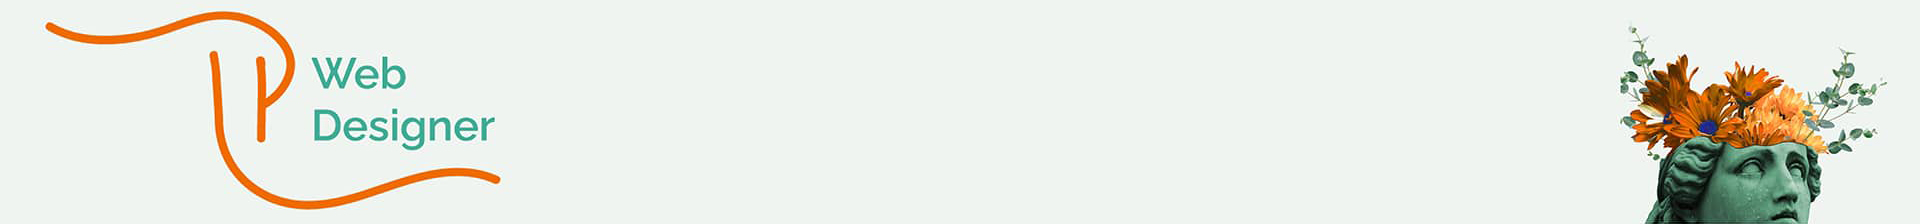
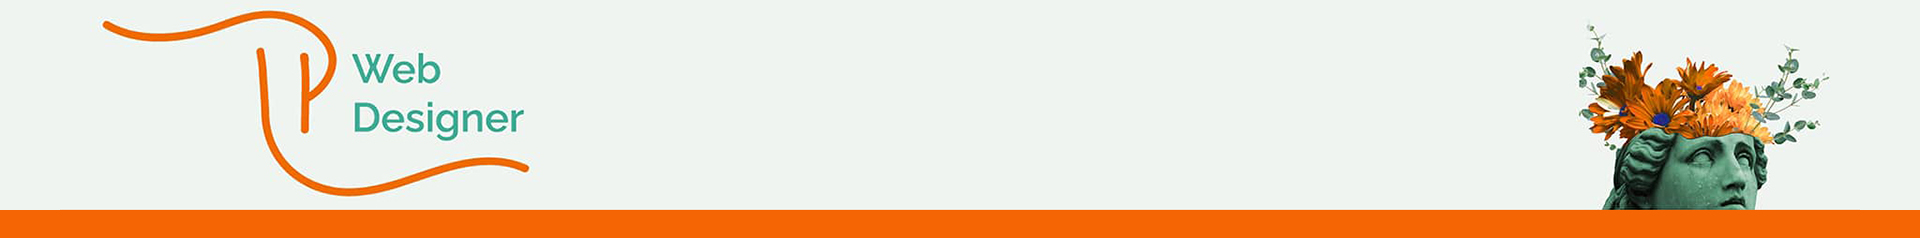
optimisation visuels

Changed region(s): [[0.0, 0.0312, 1.0, 1.0], [0.9375, 0.2188, 0.9688, 0.25], [0.9062, 0.1875, 0.9375, 0.2188]]

diff --git a/curriculum.html b/curriculum.html
@@ -19,7 +19,7 @@
   <!-- banniere  mobile-->
 
   <header>
-    <div class="fixed-top container-fluid d-md-none">
+    <div class="fixed-top container-fluid d-md-none p-0">
       <div class="row">
 
         <a href="index.html">
@@ -83,11 +83,15 @@
 
     </div>
   </main>
-<!-- flower fixed head  -->
+<!-- flower fixed head mobile -->
   <footer class="fixed-bottom">
-    <a href="index.html"><img src="assets/img/footer/head-flowers.png" alt="head-flowers" class=woman-bottom></a>
+    <a href="index.html"><img src="assets/img/footer/head-flowers.png" alt="head-flowers" class= "woman-bottom d-block d-md-none"></a>
   </footer>
 
+  <!-- flower fixed head desktop -->
+  <footer class="fixed-bottom">
+    <a href="index.html"><img src="assets/img/footer/head-flowers-branch.png" alt="head-flowers" class= "woman-bottom d-none d-md-block"></a>
+  </footer>
 
   <!-- script js  -->
   <script defer src="assets/bootstrap-5.1.3-dist/js/bootstrap.min.js"></script>
